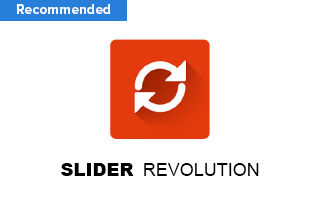
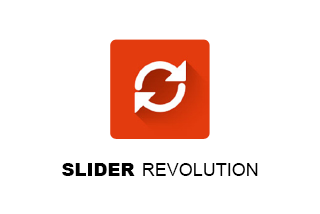
plugins  img + css

Changed region(s): [[0.0, 0.0, 0.4062, 0.1121], [0.1875, 0.757, 0.8125, 0.8411]]

diff --git a/wp_booster/wp-admin/css/wp-admin.css b/wp_booster/wp-admin/css/wp-admin.css
@@ -679,95 +679,6 @@ a.td-tooltip {
   padding: 0 5px 0 9px;
 }
 /*  ----------------------------------------------------------------------------
-    wp-admin - post panel
-*/
-/* post template */
-/*
-.my_meta_control {
-  .td-inline-block-wrap {
-    display: inline-block;
-  }
-
-  .td-post-settings-post-template {
-    width: 120px !important;
-  }
-
-  .td-help-select {
-    display: inline-block;
-    position: relative;
-    top: -15px;
-    width: 200px;
-  }
-
-  .td-select-style-overwrite {
-    margin: 11px 0px 0px -77px;
-
-    .td-panel-dropdown {
-      max-width: 120%;
-    }
-  }
-
-  .td-help-info-inline {
-     position: relative;
-     top: -15px;
-     margin-left: 5px;
-  }
-
-  .td-textarea-subtitle {
-    width: 549px;
-    //max-width: 549px;
-    //min-width: 549px;
-    height: 103px;
-    min-height: 103px;
-    border: 1px solid #e6e6e6;
-    box-shadow: none;
-    font-size: 12px;
-    color: #555555;
-    //margin-bottom: 32px;
-
-    @media (max-width: 1100px) {
-      width: 99%;
-    }
-  }
-
-  .td_info_inline_textarea {
-    display: block;
-    margin-bottom: 32px;
-  }
-
-  .td-input-text-post-settings,
-  .td-input-text-backend,
-  .td-input-text-backend-generic-filter {
-    width: 549px !important;
-    height: 32px !important;
-    border: 1px solid #e6e6e6 !important;
-    margin: 0px 0px 32px 0px;
-    //font-family: 'Open Sans', arial, sans-serif;
-    color: #555555;
-    font-size: 12px;
-    box-shadow: none !important;
-    padding-left: 10px;
-
-    @media (max-width: 1100px) {
-      width: 99% !important;
-    }
-  }
-  .td-input-text-backend {
-    width: 224px !important;
-  }
-  .td-input-text-backend-generic-filter {
-    width: 220px !important;
-  }
-
-  .td-new-sidebar-input {
-    .td_new_sidebar_field {
-      width: 191px !important;
-    }
-  }
-
-}
-*/
-/*  ----------------------------------------------------------------------------
     style for controls
 */
 /* global variables */
@@ -1407,7 +1318,7 @@ title one row controls
 .td-box-close-open-icon {
   width: 38px;
   height: 38px;
-  background: #ffffff url("../images/panel/panel-wrap/panel-arrow-close.png") repeat-y;
+  background: white url("../images/panel/panel-wrap/panel-arrow-close.png") repeat-y;
   background-position: 0px 0px;
 }
 .td-box-close .td-box-close-open-icon {
@@ -2336,6 +2247,26 @@ title one row controls
 .td-admin-wrap p {
   font-size: 15px;
   line-height: 25px;
+}
+.td-admin-wrap .td-plugin-required {
+  display: inline-block;
+  height: 21px;
+  z-index: 1;
+  position: absolute;
+  padding: 0 15px;
+  color: #fff;
+  font-size: 12px;
+  vertical-align: middle;
+  font-weight: 700;
+  text-transform: capitalize;
+  line-height: 21px;
+  letter-spacing: 0.2px;
+}
+.td-admin-wrap .td-plugin-required.required {
+  background-color: #aa0100;
+}
+.td-admin-wrap .td-plugin-required.recommended {
+  background-color: #3c80dc;
 }
 .td-admin-wrap .theme-screenshot {
   background-color: #fff;

diff --git a/wp_booster/wp-admin/css/wp_panels/general.less b/wp_booster/wp-admin/css/wp_panels/general.less
@@ -16,6 +16,29 @@
     line-height: 25px;
   }
 
+  .td-plugin-required {
+    display: inline-block;
+    height: 21px;
+    z-index: 1;
+    position: absolute;
+    padding: 0 15px;
+    color: #fff;
+    font-size: 12px;
+    vertical-align: middle;
+    font-weight: 700;
+    text-transform: capitalize;
+    line-height: 21px;
+    letter-spacing: 0.2px;
+
+    &.required {
+      background-color: #aa0100;
+    }
+
+    &.recommended {
+      background-color: #3c80dc;
+    }
+  }
+
   .theme-screenshot {
     background-color: #fff;
     z-index: -1;

diff --git a/wp_booster/wp-admin/panel/td_view_theme_plugins.php b/wp_booster/wp-admin/panel/td_view_theme_plugins.php
@@ -100,6 +100,7 @@ $wp_plugin_list = get_plugins();
 
             <!-- Import content -->
             <div class="theme-screenshot">
+                <span class="td-plugin-required <?php echo $theme_plugin['required_label'] ?>"><?php echo $theme_plugin['required_label'] ?></span>
                 <img class="td-demo-thumb" src="<?php echo $theme_plugin['img'] ?>"/>
             </div>
 
